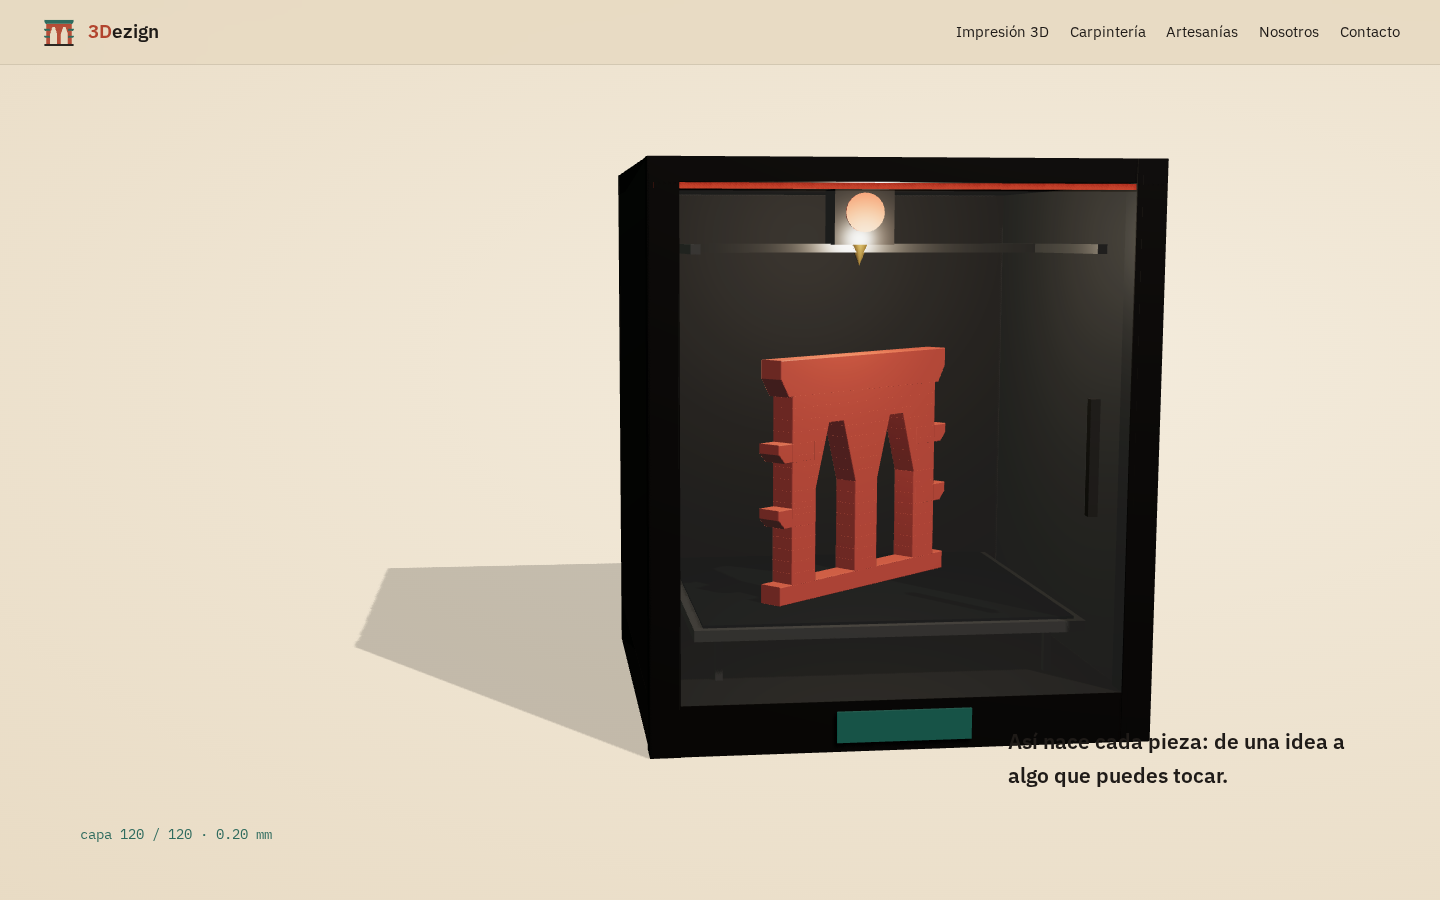
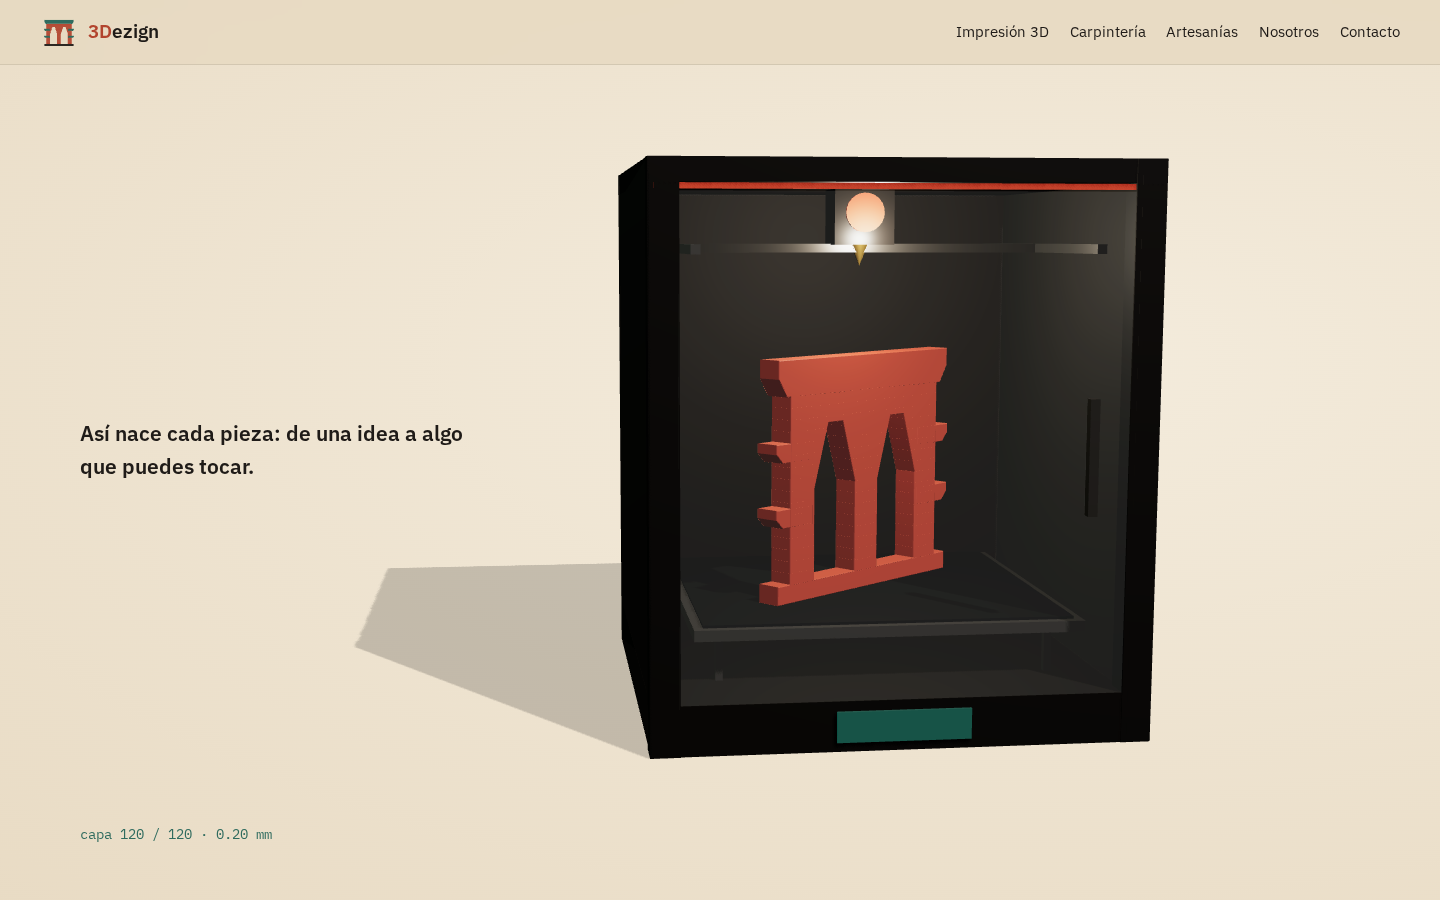
Hero: texto de cierre sin solape; celular con fondo legible y cámara ajustada

Changed region(s): [[0.0625, 0.4667, 0.3125, 0.5289], [0.6875, 0.8089, 0.9375, 0.8711]]

diff --git a/src/style.css b/src/style.css
@@ -23,12 +23,12 @@ nav a{color:var(--carbon);text-decoration:none;font-size:.95rem}nav a:hover{colo
 .hero-copy{position:absolute;z-index:2;left:clamp(1.2rem,6vw,5rem);top:50%;transform:translateY(-50%);max-width:30rem}
 .hero-copy h1{font-size:clamp(2.1rem,4.6vw,3.8rem);margin-bottom:1rem}
 .hero-copy p{font-size:1.15rem;margin-bottom:1.6rem}
-.hero-final{position:absolute;z-index:2;right:clamp(1.2rem,6vw,5rem);bottom:12%;max-width:22rem;font-size:1.3rem;font-weight:600;opacity:0;color:var(--carbon)}
+.hero-final{position:absolute;z-index:2;left:clamp(1.2rem,6vw,5rem);top:50%;transform:translateY(-50%);max-width:min(24rem,32vw);font-size:1.3rem;font-weight:600;opacity:0;color:var(--carbon)}
 .progress{position:absolute;z-index:2;left:clamp(1.2rem,6vw,5rem);bottom:6%;font-family:var(--mono);font-size:.85rem;color:var(--jade)}
 @media (max-width:820px){
-  .hero-copy{top:5.5rem;transform:none;right:1.2rem}
+  .hero-copy{top:5rem;transform:none;left:.8rem;right:.8rem;max-width:none;background:color-mix(in srgb,var(--crema) 88%,transparent);padding:1rem;border-radius:14px}
   .hero-copy h1{font-size:2rem}.hero-copy p{font-size:1rem;margin-bottom:1rem}
-  .hero-final{left:1.2rem;right:1.2rem;bottom:9%;font-size:1.1rem;text-align:center;max-width:none}
+  .hero-final{top:6rem;bottom:auto;transform:none;left:1.2rem;right:1.2rem;font-size:1.1rem;text-align:center;max-width:none;background:color-mix(in srgb,var(--crema) 90%,transparent);padding:.8rem 1rem;border-radius:12px}
   .progress{bottom:4%}
 }
 section.s{padding:clamp(4rem,10vw,7rem) clamp(1.2rem,5vw,2.5rem)}

diff --git a/src/scene.js b/src/scene.js
@@ -96,7 +96,7 @@ export function createScene(canvas, { reduced }) {
     const w = canvas.clientWidth, h = canvas.clientHeight; renderer.setSize(w, h, false);
     camera.aspect = w / h; const mobile = w / h < 0.9;
     camera.fov = mobile ? 42 : 30; camera.updateProjectionMatrix();
-    if (mobile) { printer.position.set(0, -0.2, 0); camera.position.set(0, 2.2, 10.5); camera.lookAt(0, 1.0, 0); }
+    if (mobile) { printer.position.set(0, -0.2, 0); camera.position.set(0, 3.2, 11.5); camera.lookAt(0, 2.5, 0); }
     else { printer.position.set(1.7, 0, 0); camera.position.set(-0.2, 2.6, 9.5); camera.lookAt(0.9, 1.4, 0); }
     floor.position.copy(printer.position);
   }
